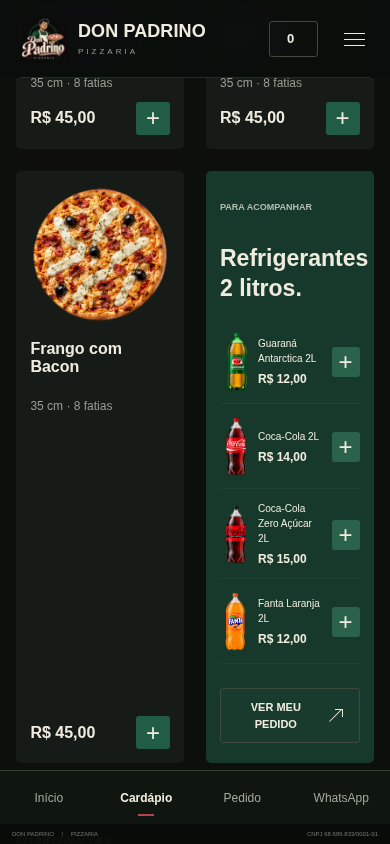
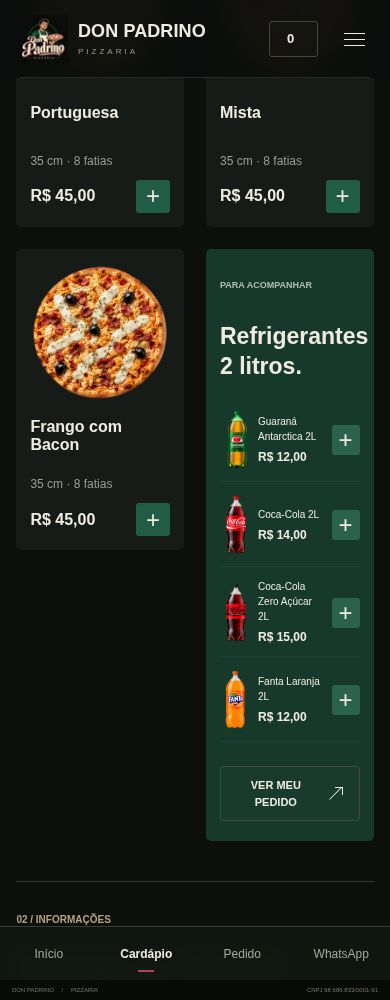
Uniformiza espaçamento dos cards de pizza sem esticar pela altura das bebidas

diff --git a/public/style.css b/public/style.css
@@ -450,6 +450,7 @@ button:hover:not(:disabled) {
   gap: 34px 24px;
 }
 .pizza-card {
+  align-self: start;
   background: var(--panel);
   border-radius: 5px;
   padding: 18px;
@@ -491,6 +492,7 @@ button:hover:not(:disabled) {
   color: #d1dec7;
 }
 .card-description {
+  min-height: 3.2em;
   font-size: 12px;
   color: var(--muted);
   line-height: 1.6;
